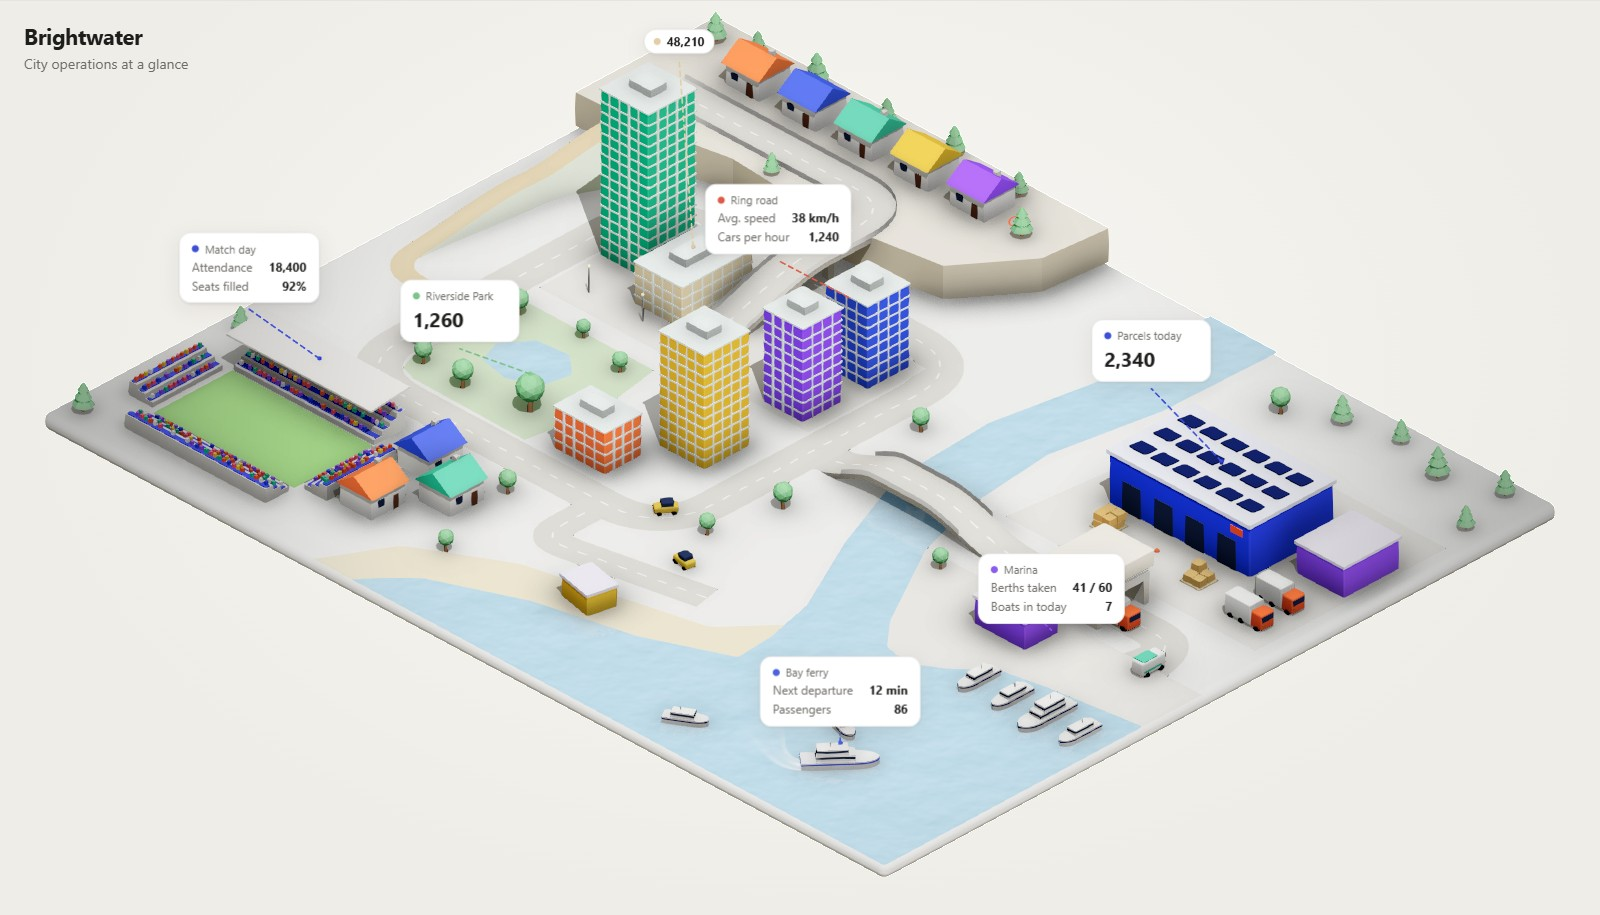
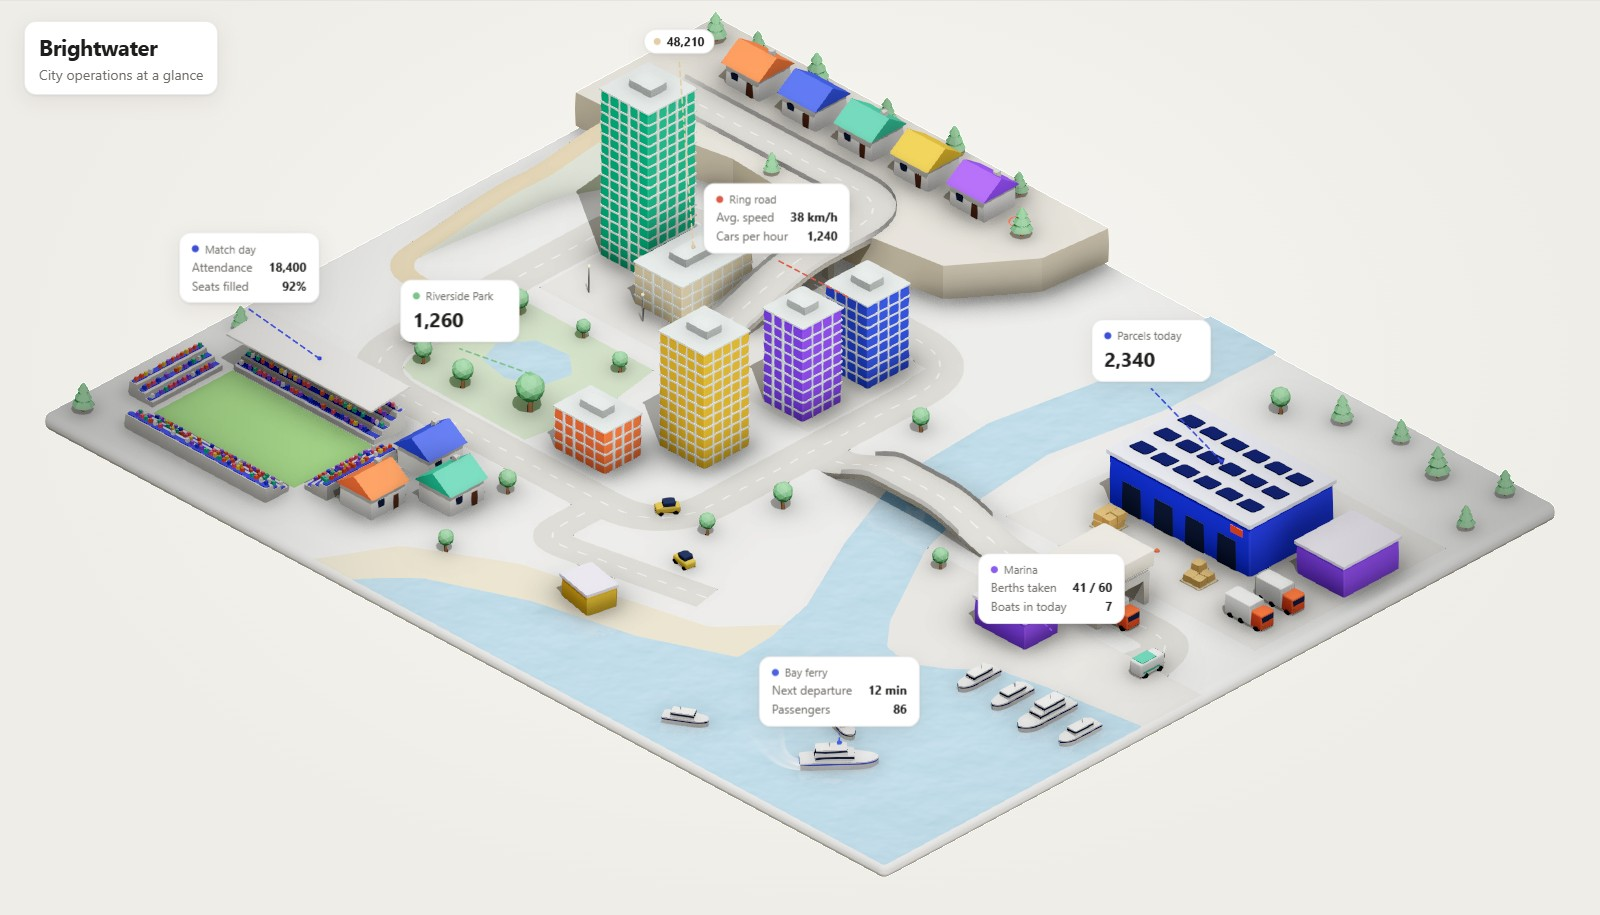
feat: the world's title on a nameplate, readable on any sky (ADR-0085)

diff --git a/src/ui/AppShell.tsx b/src/ui/AppShell.tsx
@@ -9,10 +9,9 @@ import { useEditor } from "#/editor/store";
 import { useClipboard } from "#/editor/useClipboard";
 import { useShortcuts } from "#/editor/useShortcuts";
 import { useThemeAttribute } from "#/editor/useTheme";
-import { lightnessOf } from "#/lib/color";
 import { Viewport } from "#/render/Viewport";
-import { backdropBackground, GREEN_SCREEN } from "#/scene/sky";
-import { formatHour, skyLightAt } from "#/scene/sun";
+import { backdropBackground, dioramaSkyAt } from "#/scene/sky";
+import { formatHour } from "#/scene/sun";
 
 import { BoxSelectBar } from "./BoxSelectBar";
 import { Button, IconButton } from "./Button";
@@ -63,19 +62,16 @@ import styles from "./AppShell.module.css";
  * (dawn, golden hour) and almost fully at dusk and night. Nothing with the
  * classic daylight.
  */
-const useSky = (): { style: CSSProperties; dark: boolean } => {
+const useSky = (): CSSProperties => {
 	const lighting = useEditor((s) => s.scene.lighting);
-	const sky = skyLightAt(lighting, useSceneHours());
-	if (!sky.sky) {
-		return { style: {}, dark: false };
+	const sky = dioramaSkyAt(lighting, useSceneHours());
+	if (!sky) {
+		return {};
 	}
-	// As coloured as the light: the theme's own background at noon, the day's sky at dusk and night.
-	const weight = Math.min(0.9, 0.9 * Math.max(sky.night, sky.tintAmount * 1.2));
 	return {
-		style: { "--sky": sky.sky, "--sky-weight": `${Math.round(weight * 100)}%` } as CSSProperties,
-		// The world's title switches to light text on a night sky (AppShell.module.css).
-		dark: sky.night >= 0.5,
-	};
+		"--sky": sky.color,
+		"--sky-weight": `${Math.round(sky.weight * 100)}%`,
+	} as CSSProperties;
 };
 
 /**
@@ -88,19 +84,8 @@ const Stage = ({ children }: { children: ReactNode }) => {
 	// A backdrop of the world's own (ADR-0070) replaces the sky's colour behind the diorama.
 	const backdrop = useEditor((s) => s.scene.backdrop);
 	const background = backdropBackground(backdrop, "var(--bg)");
-	const top =
-		backdrop.kind === "greenScreen"
-			? GREEN_SCREEN
-			: backdrop.kind === "gradient"
-				? backdrop.gradientStart
-				: backdrop.color;
-	const dark = background === null ? sky.dark : top !== null && lightnessOf(top) < 0.45;
 	return (
-		<main
-			className={styles.stage}
-			style={background === null ? sky.style : { background }}
-			data-sky-dark={dark || undefined}
-		>
+		<main className={styles.stage} style={background === null ? sky : { background }}>
 			{children}
 		</main>
 	);

diff --git a/src/ui/AppShell.module.css b/src/ui/AppShell.module.css
@@ -94,11 +94,22 @@
 	transition: background 1.2s ease;
 }
 
+/*
+ * The world's title on a nameplate, like the label cards: the theme's own colours on its own
+ * surface, so it reads on any sky, backdrop or part of the world behind it.
+ */
 .sceneTitle {
 	position: absolute;
 	top: 20px;
 	left: 24px;
 	z-index: 1;
+	max-width: min(360px, calc(100% - 48px));
+	padding: 10px 14px;
+	border: 1px solid var(--border);
+	border-radius: var(--radius-md);
+	background: var(--surface-raised);
+	color: var(--text);
+	box-shadow: var(--shadow-card);
 	pointer-events: none;
 }
 
@@ -151,15 +162,6 @@
 	opacity: 0.75;
 }
 
-/* On a night sky (the time of day, ADR-0052) the light theme's dark title turns light. */
-:global(:root[data-theme="light"]) .stage[data-sky-dark] .sceneTitle h1 {
-	color: var(--surface-raised);
-}
-
-:global(:root[data-theme="light"]) .stage[data-sky-dark] .sceneTitle p {
-	color: color-mix(in oklab, var(--surface-raised) 72%, transparent);
-}
-
 /*
  * Narrow layout (keep in sync with useNarrowLayout): the scene keeps the whole
  * screen and the inspector floats over its bottom as a sheet, so opening it
@@ -197,6 +199,8 @@
 	.sceneTitle {
 		top: 12px;
 		left: 16px;
+		max-width: calc(100% - 32px);
+		padding: 8px 12px;
 	}
 
 	.sceneTitle h1 {

diff --git a/src/scene/sky.ts b/src/scene/sky.ts
@@ -116,3 +116,19 @@ export const backdropBackground = (backdrop: TBackdrop, themeBackground: string)
 			return GREEN_SCREEN;
 	}
 };
+
+/**
+ * The sky's colour behind the isometric diorama at an hour (ADR-0052), and how much of it shows
+ * over the theme's background: none at noon, more as the light colours (dawn, golden hour),
+ * almost all at dusk and night. Null with the classic daylight, which has no sky colour.
+ */
+export const dioramaSkyAt = (lighting: TLighting, hour: number | null) => {
+	const light = skyLightAt(lighting, hour);
+	if (!light.sky) {
+		return null;
+	}
+	return {
+		color: light.sky,
+		weight: Math.min(0.9, 0.9 * Math.max(light.night, light.tintAmount * 1.2)),
+	};
+};

diff --git a/docs/adr/0085-title-nameplate.md b/docs/adr/0085-title-nameplate.md
@@ -1,0 +1,33 @@
+---
+status: proposed
+date: 2026-10-27
+---
+
+# 0085. The world's title on a nameplate
+
+## Context and problem statement
+
+The world's title, subtitle and time sat straight on the stage, in the theme's text colours, and the light theme's title turned light on a night sky (ADR-0052). What's behind them varies: the day's sky over the theme's background, the sky dome in perspective, a backdrop of the world's own (ADR-0070), or the world itself. Mid-tones (dusk, golden hour) left the subtitle hard to read in both themes, and a golden sky in the dark theme put light text on a light sky (owner, 2026-10-27).
+
+## Decision drivers
+
+- The title reads at every hour, in both themes, on any backdrop and over the world.
+- It looks like the rest of the view's UI (the label cards).
+
+## Considered options
+
+1. **Pick the text's colour from what's behind it:** work out the colour in the top-left corner (backdrop, dome, or the sky over the theme's background), choose dark or light text by contrast, and add a glow behind it. On a mid-tone no colour of text reaches 4.5:1 (3.7:1 at dusk in the light theme), it's a guess where the world or clouds show through, and the glow is visible as a smudge.
+2. **A nameplate:** the title on a card like the label cards (raised surface, border, card shadow), in the theme's own colours.
+
+## Decision outcome
+
+Chosen option: **2**, because it reads everywhere without guessing what's behind it, and matches the label cards. It replaces ADR-0052's light title on a night sky.
+
+### Consequences
+
+- Good: the same contrast as the editor's panels, whatever the sky, backdrop or world; less code.
+- Bad: a card over the world's corner rather than bare text; a world that wants bare text would need a setting for it (not built).
+
+## More information
+
+`ui/AppShell.module.css` (`.sceneTitle`), `ui/AppShell.tsx` (`SceneTitle`). The stage's sky colour and weight moved to `dioramaSkyAt` in `scene/sky.ts`.

diff --git a/docs/adr/README.md b/docs/adr/README.md
@@ -88,3 +88,4 @@ Why the code is the way it is. Read this before making structural changes; write
 | [0082](0082-leaning-in-turns.md) | Vehicles lean in turns, as far as their kind does | accepted |
 | [0083](0083-templates-at-templates.md) | The templates are served at /templates | accepted |
 | [0084](0084-render-a-picture.md) | Render a picture: one still, drawn finer than a live view | accepted |
+| [0085](0085-title-nameplate.md) | The world's title on a nameplate | proposed |
